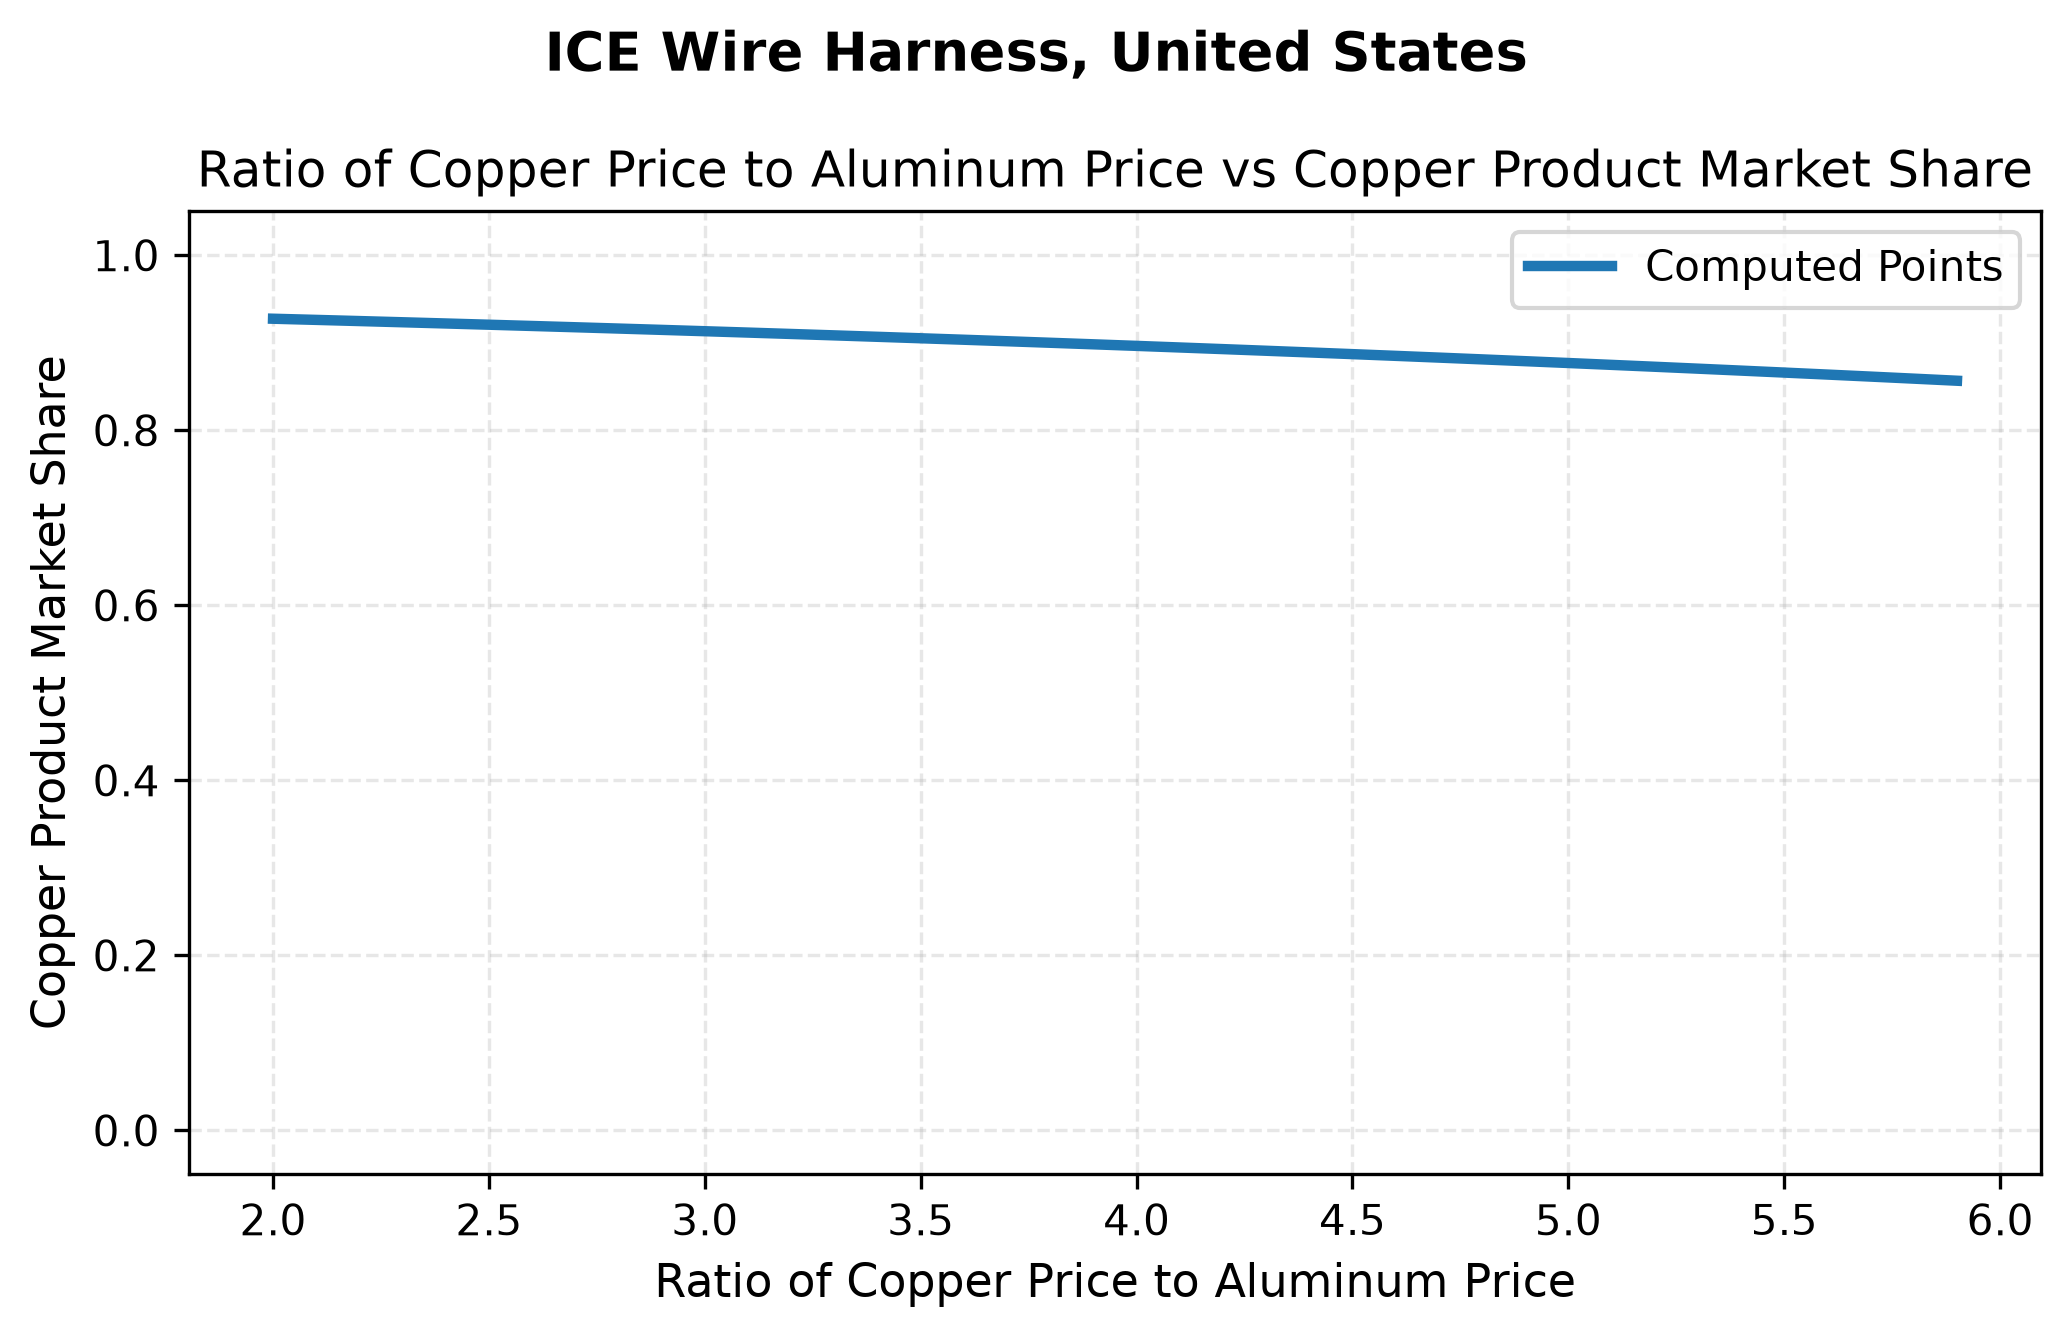
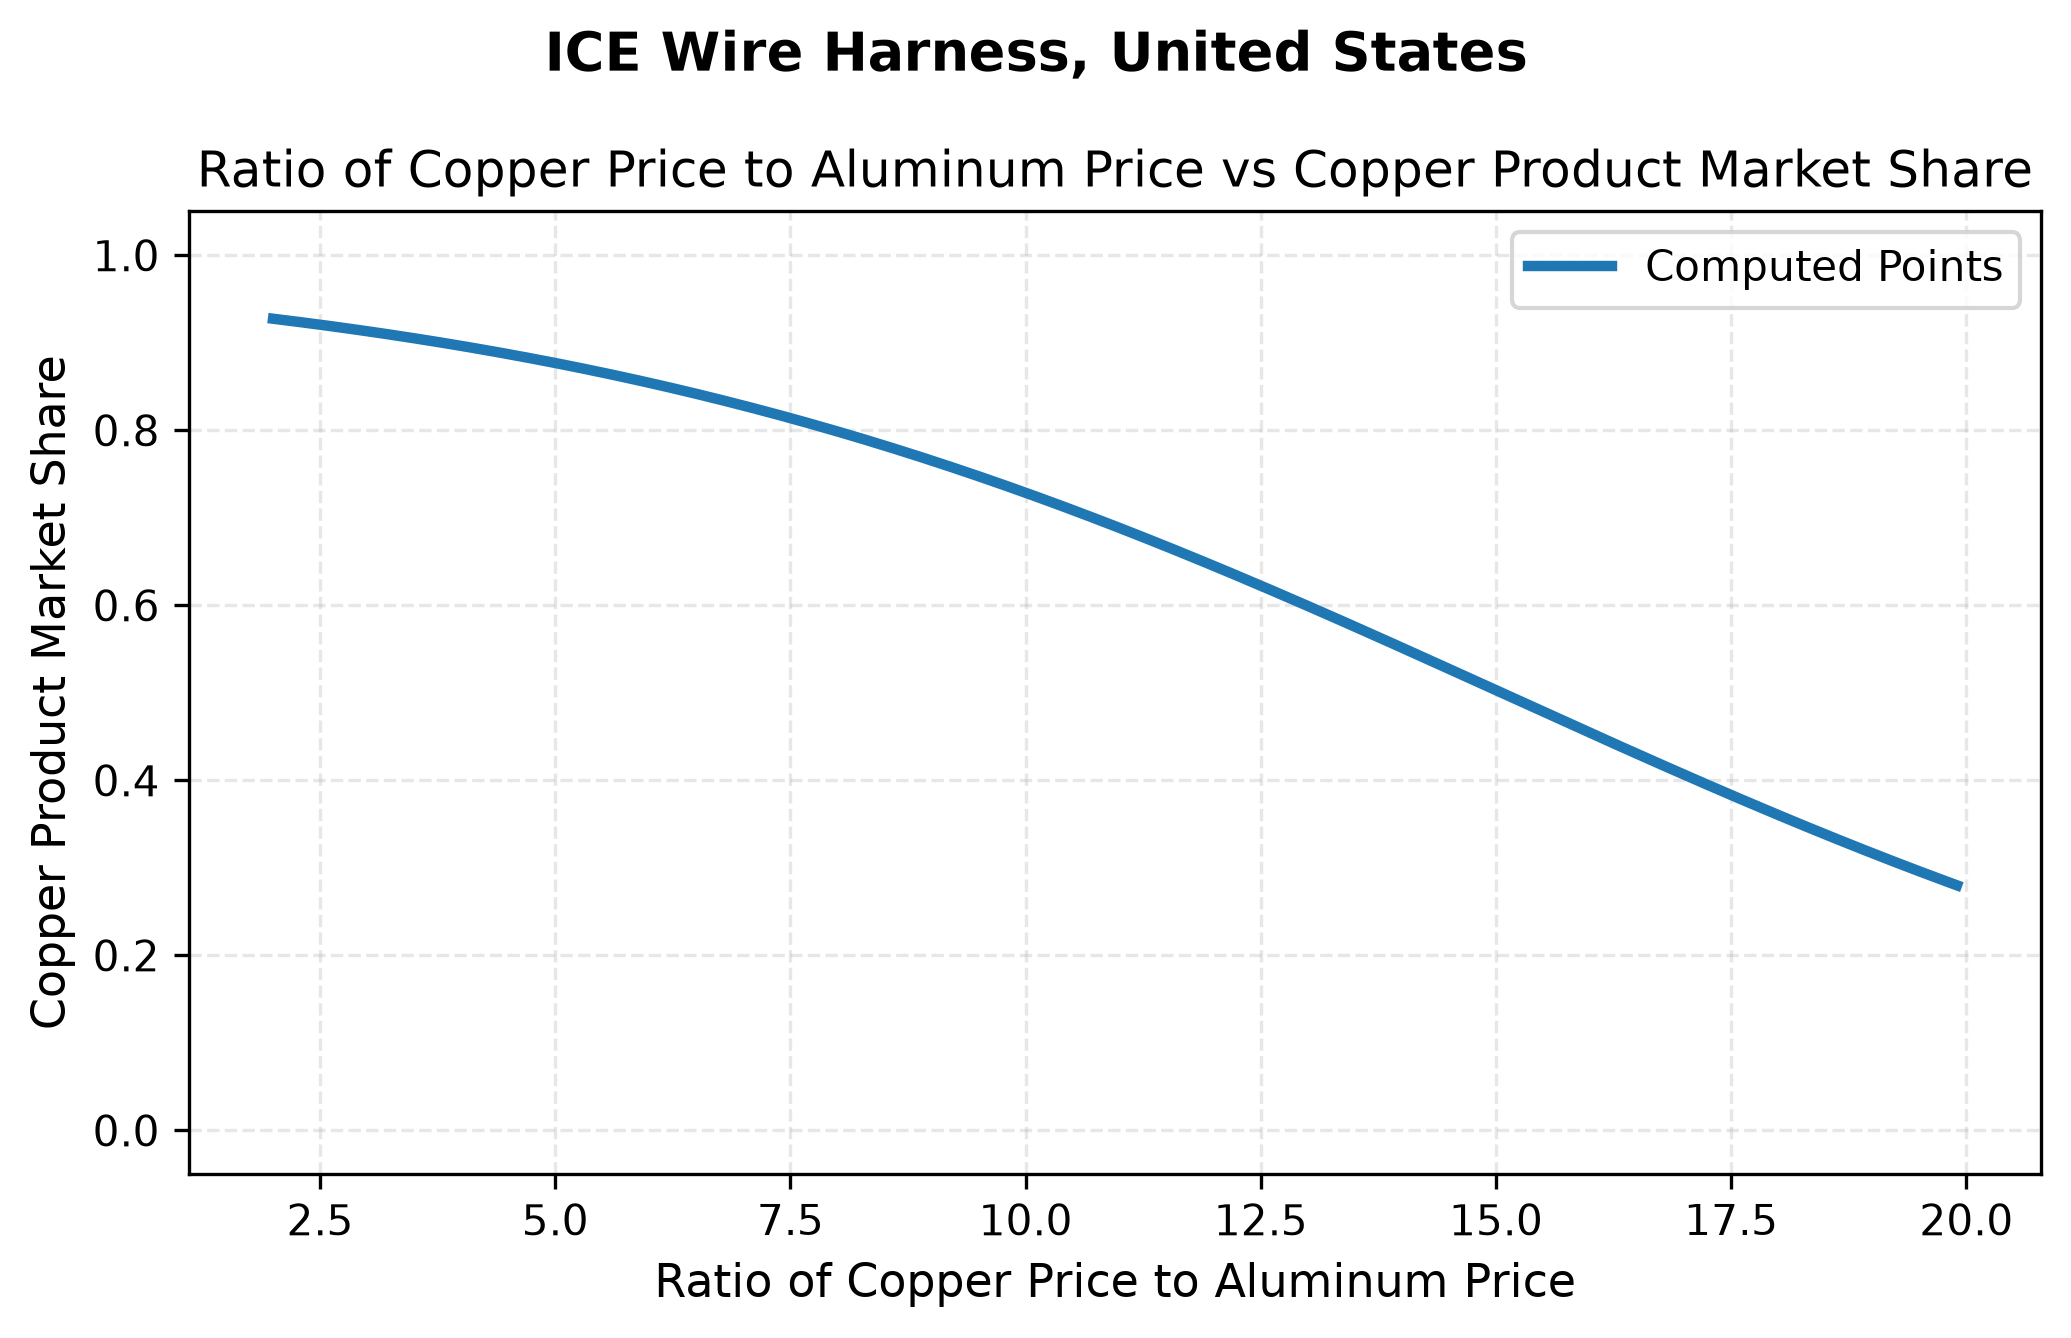
progress in increasing ratio

diff --git a/iter9_files/functions.py b/iter9_files/functions.py
@@ -482,7 +482,9 @@ def find_poly_fit(x,y, max_deg = 1):
             current_degree = i
             current_error = rmse
             current_eqtn = p_fitted
-    return {"poly_error": current_error, "poly_degree": current_degree,"poly_equation": current_eqtn}
+    coeffs = current_eqtn.convert().coef
+    poly_a, poly_b = coeffs
+    return {"poly_error": current_error, "poly_degree": current_degree,"poly_equation": coeffs, "poly_a":poly_a,"poly_b":poly_b }
 
 def find_power_fit(x,y):
 
@@ -505,8 +507,11 @@ def find_power_fit(x,y):
 def find_logit_fit(ratios, shares, s_min=0, s_max = 1):
     shares = np.array(shares)
     ratios = np.array(ratios)
-    assert np.all(shares > s_min),  "S_c must be > S_min for log to be defined"
-    assert np.all(shares < s_max),  "S_c must be < S_max for log to be defined"
+    print(shares)
+    shares = np.maximum(shares, s_min)
+    #### replace values in array to a new minimum
+    assert np.all(shares >= s_min),  "S_c must be > S_min for log to be defined"
+    assert np.all(shares <= s_max),  "S_c must be < S_max for log to be defined"
     assert len(shares) >= 2,        "Need at least 2 data points"
 
     # ── Build linearised system ──────────────────────────────────────────────────
@@ -550,10 +555,10 @@ def find_fit(filename, region = "India"):
 
     return try_all_fits(x,y)
 
-def try_all_fits(x,y):
+def try_all_fits(x,y, s_min = 0, s_max = 1):
     poly_fit = find_poly_fit(x,y)
     power_fit = find_power_fit(x,y)
-    logit_fit = find_logit_fit(x, y, s_min=0, s_max=1)
+    logit_fit = find_logit_fit(x, y, s_min, s_max)
     poly_error = poly_fit["poly_error"]
     power_error = power_fit["power_error"]
     logit_error = logit_fit["logit_error"]
@@ -595,14 +600,14 @@ def run_through_file(filename):
         generate_graph(result, region, 1000*x, y, xlabel ="Copper Price (dollars per tonne)", material = "cu")
         y = point_generation_price(result,region, price_range = x, variable = "al")
         generate_graph(result, region, 1000*x, y, xlabel ="Aluminum Price (dollars per tonne)", material = "al")
-        x = np.arange(2,6,0.1)
+        x = np.arange(2,20,0.1)
         y = point_generation_ratio(result,region, ratio_range = x)
         generate_graph(result, region, x, y, xlabel ="Ratio of Copper Price to Aluminum Price")
-        fit_results.append({"region":region}|try_all_fits(x,y))
+        fit_results.append({"region":region}|try_all_fits(x,y, s_min = 0.50, s_max = 0.99))
     x = np.arange(0.1,20, 0.1)
     generate_master_graph(result, x, xlabel ="Copper Price (dollars per tonne)", material = "cu" )
     generate_master_graph(result, x,  xlabel ="Aluminum Price (dollars per tonne)", material = "al" )
-    x = np.arange(2,6,0.1)
+    x = np.arange(2,20,0.1)
     generate_master_graph(result, x,  xlabel ="Ratio of Copper Price to Aluminum Price", material = None )
 
     fit_results = pd.DataFrame(fit_results)
@@ -613,13 +618,65 @@ def run_through_file(filename):
 ####################### TESTING
 
 # print(find_fit('iter9_pdfs/wire_harness.pdf'))
-run_through_file('iter9_pdfs/interconnect.pdf')
-run_through_file('iter9_pdfs/busbar.pdf')
-run_through_file('iter9_pdfs/motor_winding.pdf')
-run_through_file('iter9_pdfs/wire_harness.pdf')
-run_through_file('iter9_pdfs/ice_busbar.pdf')
+# run_through_file('iter9_pdfs/interconnect.pdf')
+# run_through_file('iter9_pdfs/busbar.pdf')
+# run_through_file('iter9_pdfs/motor_winding.pdf')
+# run_through_file('iter9_pdfs/wire_harness.pdf')
+# run_through_file('iter9_pdfs/ice_busbar.pdf')
 run_through_file('iter9_pdfs/ice_wire_harness.pdf')
-run_through_file('iter9_pdfs/ice_alternator.pdf')
+# run_through_file('iter9_pdfs/ice_alternator.pdf')
+# plot all the fits
+
+result = pd.read_csv("fit_results.csv")
+print(result.columns)
+
+# LINEAR FIT
+for index, row in result.iterrows():
+    region = row["region"]
+    a = row["poly_a"]
+    b = row["poly_b"]
+    def f(x):
+        return a + b*x
+    x = np.arange(2,6,0.1)
+    y = f(x)
+    plt.ylim(-0.05, 1.05)
+    plt.plot(x,y)
+    plt.title("Linear Fit")
+plt.savefig("linear fit")
+plt.clf()
+
+# POWER FIT
+for index, row in result.iterrows():
+    region = row["region"]
+    a = row["power_alpha"]
+    b = row["power_beta"]
+    def f(x):
+        return a*(x**b)
+    x = np.arange(2,6,0.1)
+    y = f(x)
+    plt.ylim(-0.05, 1.05)
+    plt.plot(x,y)
+    plt.title("Power Fit")
+plt.savefig("power fit")
+plt.clf()
+
+# LOGIT FIT
+for index, row in result.iterrows():
+    region = row["region"]
+    a = row["logit_alpha"]
+    b = row["logit_beta"]
+    x = np.arange(2,6,0.1)
+    s_min = 0.5
+    s_max = 0.99
+    y = s_min + (s_max - s_min) / (1 + np.exp(a * (x - b)))
+    plt.ylim(-0.05, 1.05)
+    plt.plot(x,y)
+    plt.title("Logit Fit")
+plt.savefig("logit fit")
+plt.clf()
+
+
+
 
 # folder_path = Path("iter9_pdfs")
 